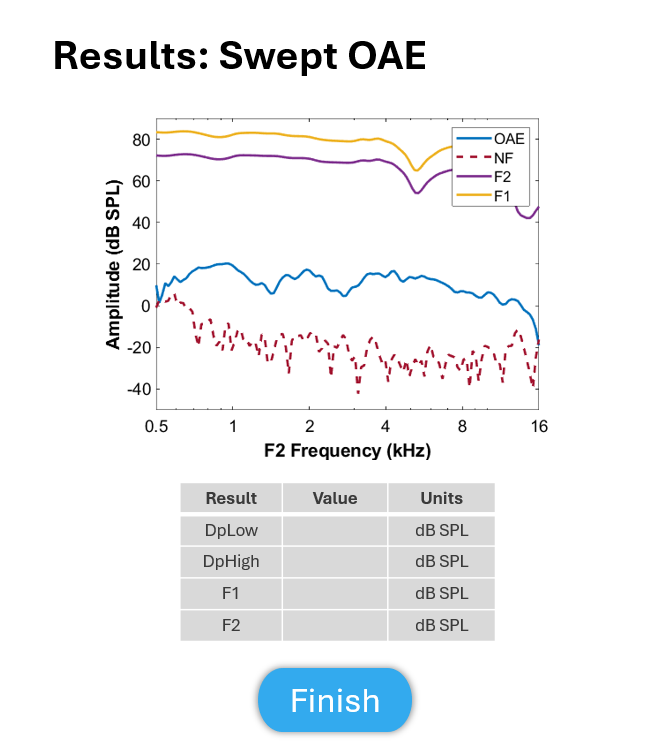
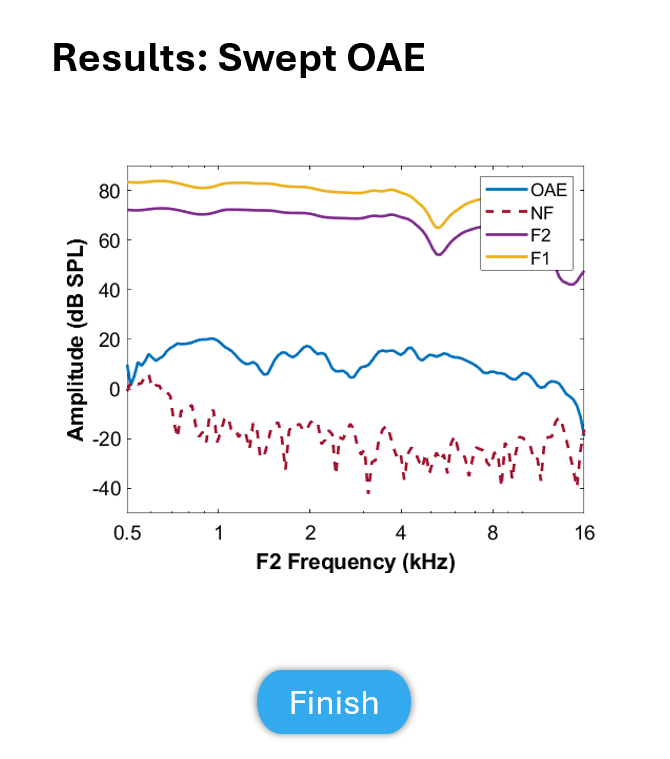
remove table from results-view in rst, png, pptx

diff --git a/Specifications/swept-oae/swept-oae.rst b/Specifications/swept-oae/swept-oae.rst
@@ -100,27 +100,6 @@ The GUI should display the results of the Swept OAE exam:
 
    **Figure 3.** *GUI for the Swept OAE Results screen. Results Screen*
 
-.. list-table::
-    :widths: 10, 20, 20
-    :header-rows: 1
-
-    * - Result
-      - Value
-      - Units
-    * - Dp Low 
-      - 
-      - dB SPL
-    * - Dp High
-      -
-      - dB SPL
-    * - F1
-      -
-      - dB SPL
-    * - F2
-      -
-      - dB SPL
-
-
 Software Testing Procedures
 ---------------------------
 
